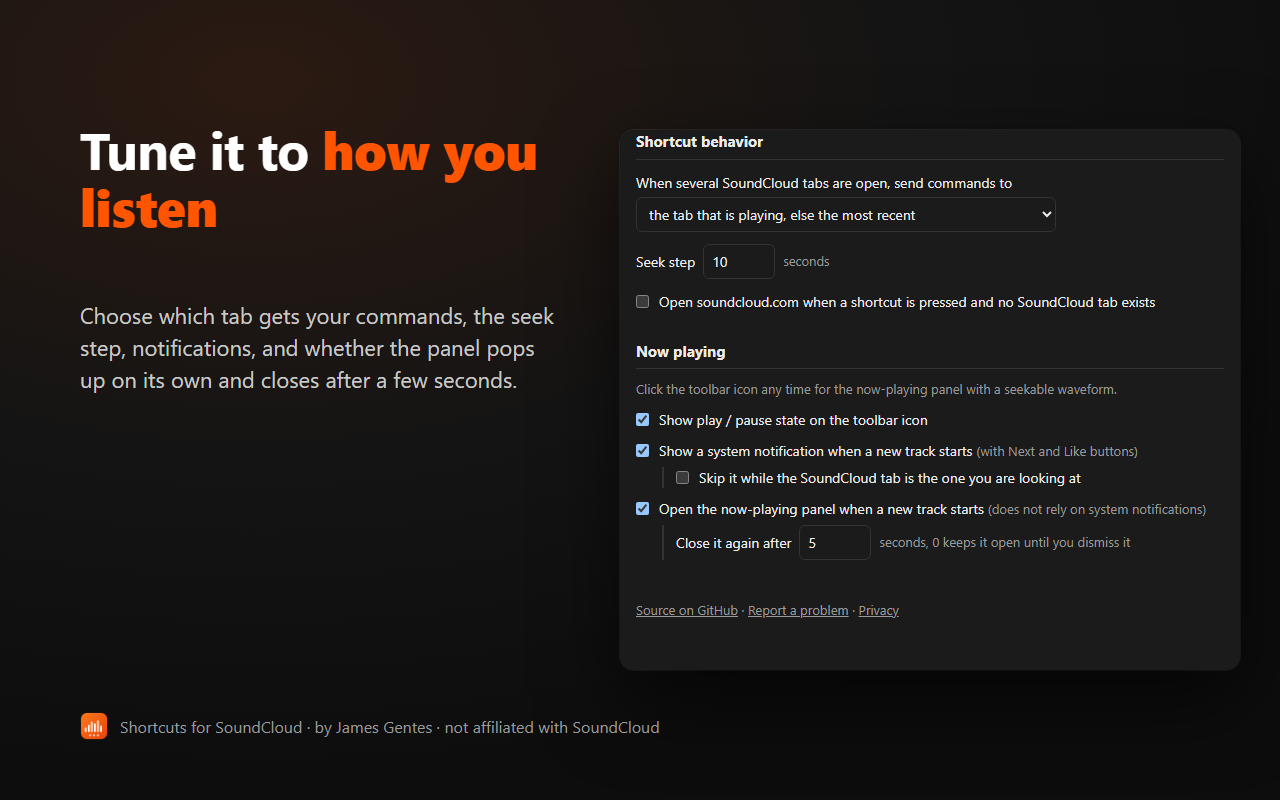
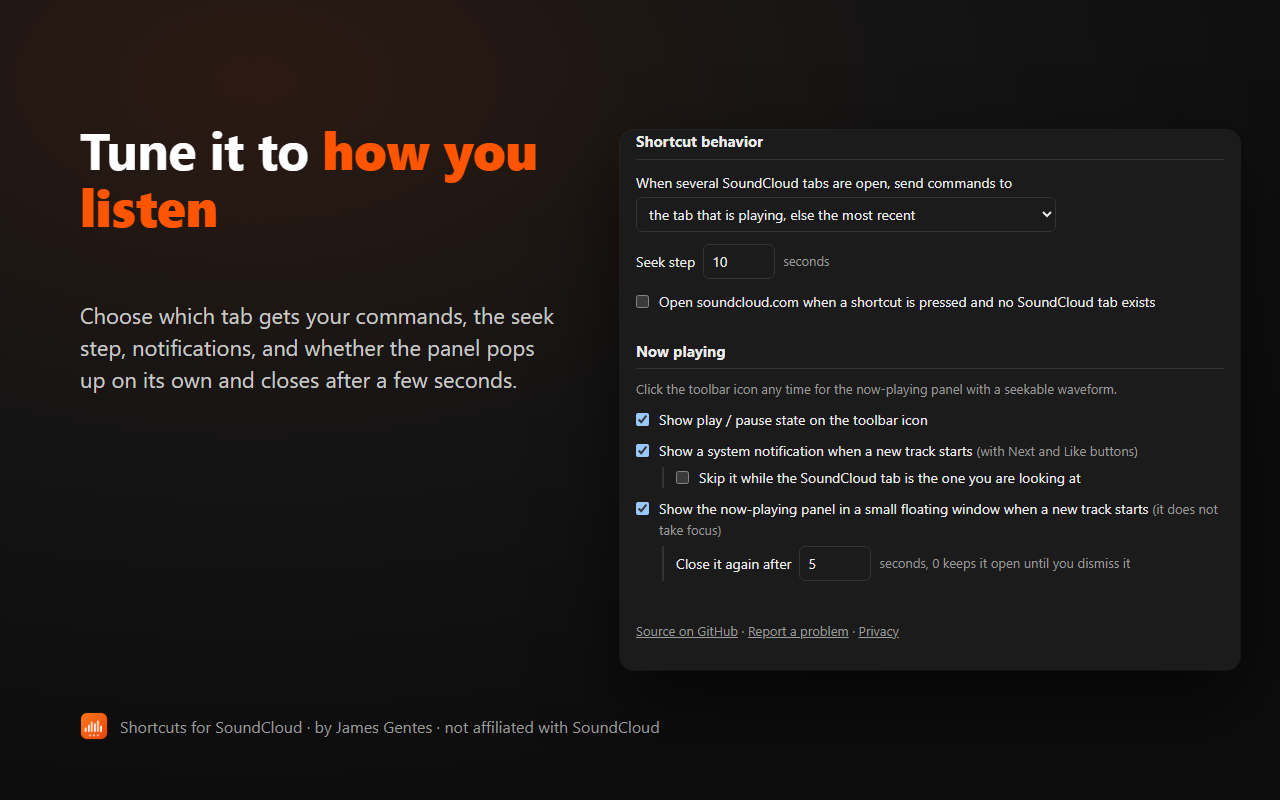
Show the track-change panel in an unfocused floating window
The toolbar popup opened on track change always took keyboard focus,
interrupting typing in forms or the address bar, and a keystroke kept
it open. A popup-type window created with focused: false appears
without activating, bottom-right of the current window, and closes
itself after the configured delay; a further track change while it is
open reuses it and resets the timer. Clicking the toolbar icon still
opens the regular popup.

Changed region(s): [[0.5, 0.625, 0.9688, 0.7188], [0.5, 0.75, 0.7188, 0.8125]]

diff --git a/src/entrypoints/background.ts b/src/entrypoints/background.ts
@@ -11,6 +11,7 @@ import {
 import { loadSettings, type Settings } from "@/lib/settings";
 import {
   AUTO_OPEN_KEY,
+  TOAST_WINDOW_KEY,
   loadState,
   rememberWaveform,
   saveState,
@@ -46,6 +47,12 @@ export default defineBackground(() => {
           .catch((error) => sendResponse({ ok: false, detail: String(error) }));
         return true; // async response
     }
+  });
+
+  chrome.windows.onRemoved.addListener((windowId) => {
+    void chrome.storage.session.get(TOAST_WINDOW_KEY).then((stored) => {
+      if (stored[TOAST_WINDOW_KEY] === windowId) return chrome.storage.session.remove(TOAST_WINDOW_KEY);
+    });
   });
 
   chrome.tabs.onRemoved.addListener((tabId) => {
@@ -199,24 +206,65 @@ async function onStateReport(tabId: number, incoming: NowPlaying | null): Promis
   }
 }
 
+/** Outer size of the floating panel window: the 340x126 panel plus the frame. */
+const TOAST_WIDTH = 356;
+const TOAST_HEIGHT = 168;
+const TOAST_MARGIN = 16;
+
 /**
- * Open the toolbar popup programmatically. Needs Chrome 127+ (Edge equivalent)
- * and a focused browser window; otherwise the browser rejects it.
+ * Show the now-playing panel in a small window of its own, without focus.
+ * The toolbar popup would steal focus (and close as soon as it lost it), so
+ * an unfocused popup-type window is used instead; it closes itself after the
+ * configured delay. If one is already open it is reused and its timer reset.
  */
 async function openPanel(settings: Settings): Promise<void> {
-  const action = chrome.action as typeof chrome.action & {
-    openPopup?: (options?: { windowId?: number }) => Promise<void>;
-  };
-  if (typeof action.openPopup !== "function") return;
   try {
-    const win = await chrome.windows.getLastFocused();
-    // Tell the popup it was opened automatically so it can close itself.
+    // Tell the panel it was opened automatically so it can close itself.
     await chrome.storage.session.set({
       [AUTO_OPEN_KEY]: { at: Date.now(), closeAfter: settings.panelAutoCloseSeconds },
     });
-    await action.openPopup(win.id !== undefined ? { windowId: win.id } : undefined);
+    if (await toastWindowExists()) return;
+
+    let left: number | undefined;
+    let top: number | undefined;
+    try {
+      const win = await chrome.windows.getLastFocused({ windowTypes: ["normal"] });
+      if (win.left !== undefined && win.width !== undefined) {
+        left = win.left + win.width - TOAST_WIDTH - TOAST_MARGIN;
+      }
+      if (win.top !== undefined && win.height !== undefined) {
+        top = win.top + win.height - TOAST_HEIGHT - TOAST_MARGIN;
+      }
+    } catch {
+      /* no normal window; the browser picks a position */
+    }
+    const created = await chrome.windows.create({
+      url: chrome.runtime.getURL("popup.html?toast=1"),
+      type: "popup",
+      focused: false,
+      width: TOAST_WIDTH,
+      height: TOAST_HEIGHT,
+      left,
+      top,
+    });
+    if (created?.id !== undefined) {
+      await chrome.storage.session.set({ [TOAST_WINDOW_KEY]: created.id });
+    }
   } catch (error) {
     console.warn("[sc-shortcuts] could not open panel:", error);
+  }
+}
+
+async function toastWindowExists(): Promise<boolean> {
+  const stored = await chrome.storage.session.get(TOAST_WINDOW_KEY);
+  const id = stored[TOAST_WINDOW_KEY] as number | undefined;
+  if (id === undefined) return false;
+  try {
+    await chrome.windows.get(id);
+    return true;
+  } catch {
+    await chrome.storage.session.remove(TOAST_WINDOW_KEY);
+    return false;
   }
 }
 

diff --git a/src/entrypoints/popup/main.ts b/src/entrypoints/popup/main.ts
@@ -182,28 +182,55 @@ function wireControls(): void {
   });
 }
 
+/** True when this page runs in the floating window the worker opens on track change. */
+const isToast = new URLSearchParams(location.search).has("toast");
+
+async function closeSelf(): Promise<void> {
+  if (!isToast) {
+    window.close();
+    return;
+  }
+  // A window the extension created is closed through the windows API.
+  const win = await chrome.windows.getCurrent();
+  if (win.id !== undefined) await chrome.windows.remove(win.id);
+}
+
+let autoCloseTimer: ReturnType<typeof setTimeout> | null = null;
+let autoCloseCancelled = false;
+
 /**
- * When the worker opened this popup automatically, close it again after the
- * configured delay unless the user moves the mouse into it.
+ * When the worker opened this panel automatically, close it again after the
+ * configured delay unless the user moves the mouse into it. In the floating
+ * window the worker re-arms the timer for each new track by rewriting the
+ * auto-open record, which arrives here as a storage change.
  */
-async function armAutoClose(): Promise<void> {
-  const stored = await chrome.storage.session.get(AUTO_OPEN_KEY);
-  const auto = stored[AUTO_OPEN_KEY] as AutoOpen | undefined;
-  if (!auto) return;
-  await chrome.storage.session.remove(AUTO_OPEN_KEY);
+function armAutoClose(auto: AutoOpen | undefined): void {
+  if (!auto || autoCloseCancelled) return;
+  void chrome.storage.session.remove(AUTO_OPEN_KEY);
+  if (autoCloseTimer) clearTimeout(autoCloseTimer);
+  autoCloseTimer = null;
   if (Date.now() - auto.at > 5000 || auto.closeAfter <= 0) return;
-  const timer = setTimeout(() => window.close(), auto.closeAfter * 1000);
-  const cancel = () => clearTimeout(timer);
-  document.addEventListener("mouseenter", cancel, { once: true });
-  document.addEventListener("mousemove", cancel, { once: true });
-  document.addEventListener("keydown", cancel, { once: true });
+  autoCloseTimer = setTimeout(() => void closeSelf(), auto.closeAfter * 1000);
+}
+
+function cancelAutoClose(): void {
+  autoCloseCancelled = true;
+  if (autoCloseTimer) clearTimeout(autoCloseTimer);
+  autoCloseTimer = null;
 }
 
 async function init(): Promise<void> {
+  if (isToast) document.documentElement.classList.add("toast");
   wireControls();
-  void armAutoClose();
+  document.addEventListener("mouseenter", cancelAutoClose, { once: true });
+  document.addEventListener("mousemove", cancelAutoClose, { once: true });
+  document.addEventListener("keydown", cancelAutoClose, { once: true });
+  const stored = await chrome.storage.session.get(AUTO_OPEN_KEY);
+  armAutoClose(stored[AUTO_OPEN_KEY] as AutoOpen | undefined);
   applyState(await loadState());
   chrome.storage.session.onChanged.addListener((changes) => {
+    const auto = changes[AUTO_OPEN_KEY];
+    if (isToast && auto?.newValue) armAutoClose(auto.newValue as AutoOpen);
     const change = changes[STATE_KEY];
     if (change) {
       applyState({

diff --git a/src/entrypoints/options/index.html b/src/entrypoints/options/index.html
@@ -85,7 +85,7 @@
           <div class="group">
             <label class="check">
               <input name="openPanelOnTrackChange" type="checkbox" />
-              <span>Open the now-playing panel when a new track starts <span class="muted">(does not rely on system notifications)</span></span>
+              <span>Show the now-playing panel in a small floating window when a new track starts <span class="muted">(it does not take focus)</span></span>
             </label>
             <div class="sub" data-depends="openPanelOnTrackChange">
               <div class="field inline">

diff --git a/src/lib/state.ts b/src/lib/state.ts
@@ -50,6 +50,8 @@ export const STATE_KEY = "state";
 
 /** Set by the worker right before it opens the popup automatically. */
 export const AUTO_OPEN_KEY = "autoOpen";
+/** Session-storage key holding the id of the floating now-playing window, if open. */
+export const TOAST_WINDOW_KEY = "toastWindowId";
 export interface AutoOpen {
   at: number;
   /** Seconds until the popup closes itself; 0 keeps it open. */

diff --git a/src/entrypoints/popup/style.css b/src/entrypoints/popup/style.css
@@ -24,6 +24,15 @@ html,
 body {
   margin: 0;
   width: 340px;
+}
+/* In the floating window the viewport is a little wider than the panel. */
+html.toast,
+html.toast body {
+  width: 100%;
+  min-height: 100%;
+}
+html,
+body {
   background: var(--bg);
   color: var(--fg);
   font: 12px/1.3 system-ui, -apple-system, "Segoe UI", Roboto, sans-serif;

diff --git a/README.md b/README.md
@@ -31,7 +31,7 @@ Remap or bind any of them at `chrome://extensions/shortcuts` or `edge://extensio
 ## Now playing
 
 - The toolbar icon shows a small play/pause mark and opens a panel with artwork, title, artist, transport controls, like, repost, mute, and a SoundCloud-style waveform. Hover it for the time at the cursor; click to seek.
-- When a new track starts, the panel opens by itself for a few seconds, and a system notification shows the artwork, title and artist with Next and Like buttons. Both can be turned off, and the notification can be limited to when you are not looking at the SoundCloud tab.
+- When a new track starts, the panel appears in a small floating window for a few seconds without taking focus from what you are doing, and a system notification shows the artwork, title and artist with Next and Like buttons. Both can be turned off, and the notification can be limited to when you are not looking at the SoundCloud tab.
 
 SoundCloud's player bar no longer shows whether the current track is reposted, so the panel reads that from the track's own page when it is open, and otherwise remembers your own repost toggles. A track you reposted before installing shows as not reposted until you open its page.
 
